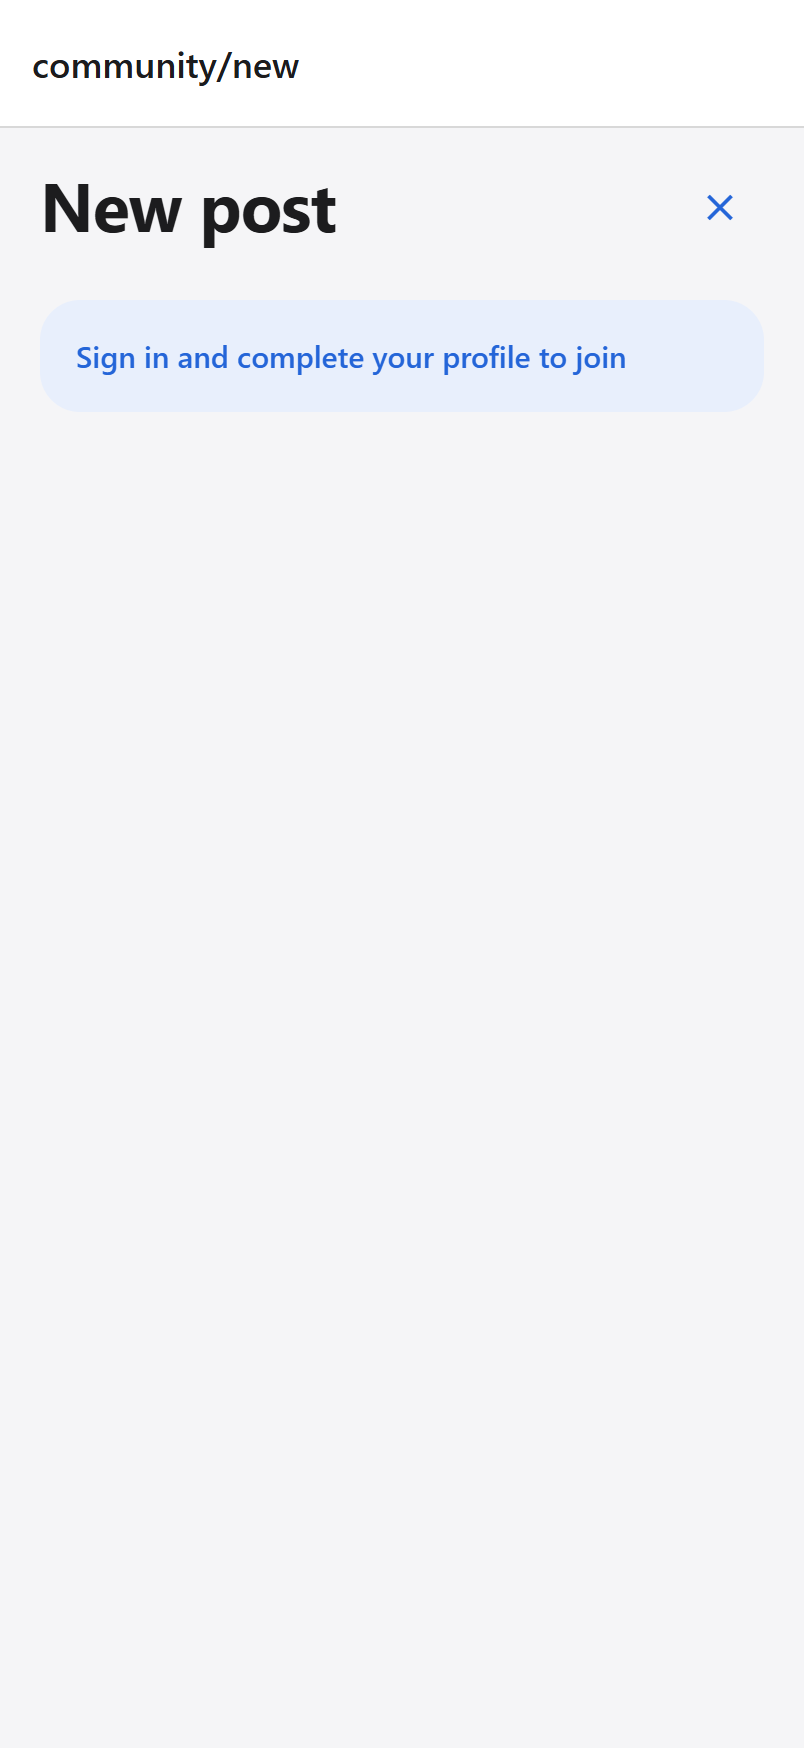
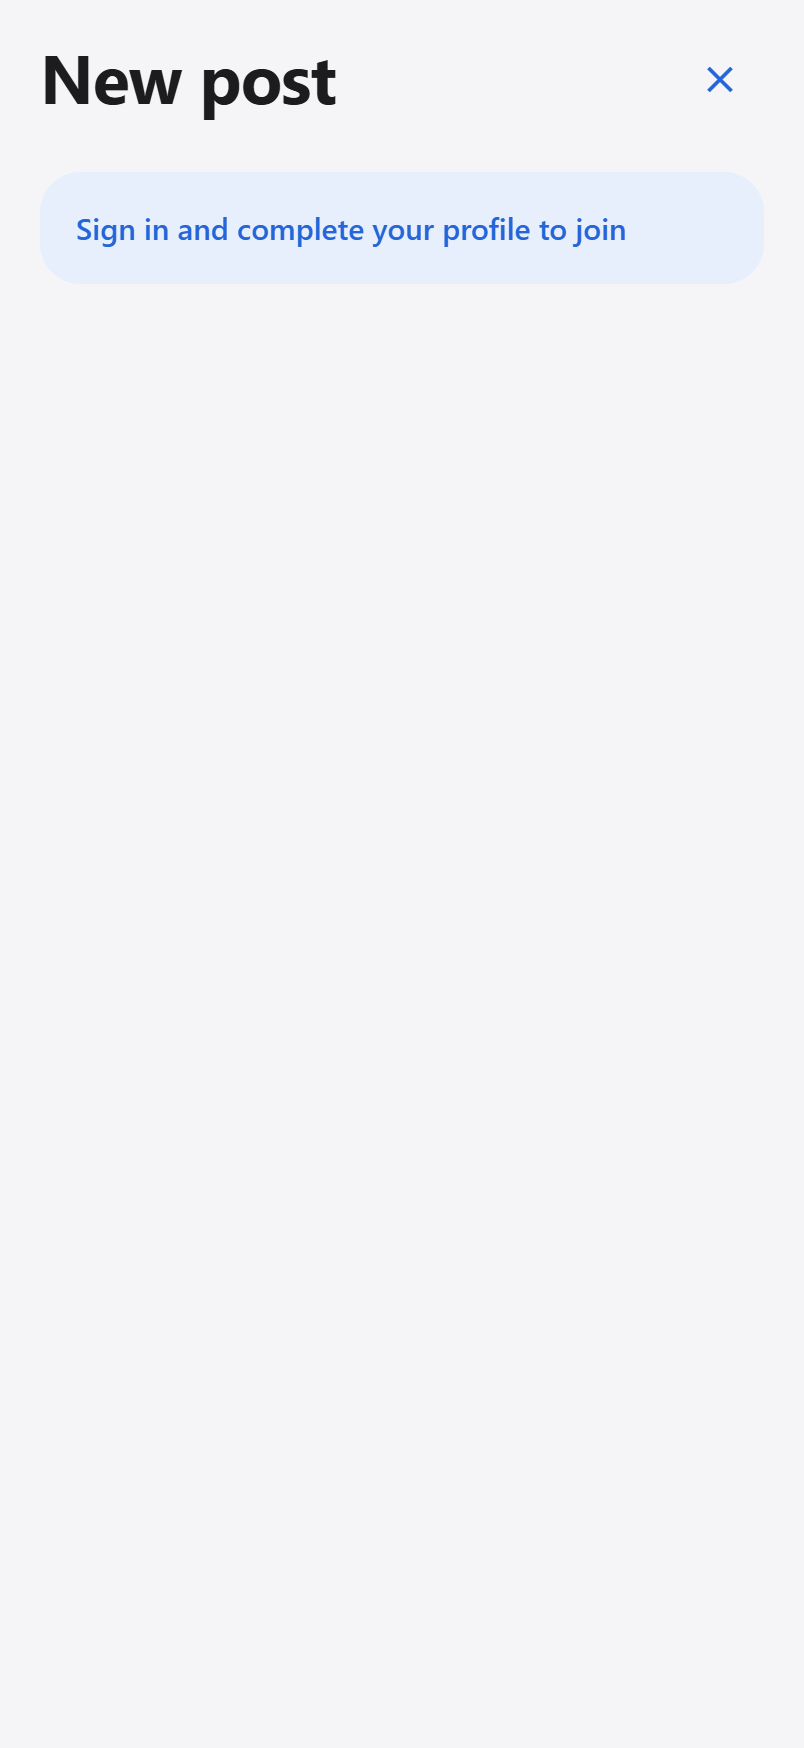
fix: use available Maven mirror for locked iOS dependencies

diff --git a/docs/plans/2026-09-09-device-feedback-social-v5.md b/docs/plans/2026-09-09-device-feedback-social-v5.md
@@ -37,3 +37,8 @@ The community is a working shared feed, not a fabricated active network. Current
 Avatar cleanup is a private due-job worker. Account-erasure processing invokes it alongside existing media workers; the operator can invoke `cleanup-profile-avatars` again after the upload-credential window (at most 2h15 from reservation). There is currently no periodic cleanup scheduler. Old objects become unreadable immediately on replacement, but queued physical deletion must not be described as already complete. Before a public production launch, schedule the existing worker and measure oldest pending-job age; do not add another user-facing approval step.
 
 Full source CI passed for `a91f27667333bfecedc2a6362726eb3145d4220e`: [run 34375166289](https://github.com/ZP151/anicare/actions/runs/34375166289), including all database contracts from clean migrations. Hosted correctness completed successfully; provenance promotion and iOS build follow.
+
+
+### Native dependency transport repair
+
+Candidate run 34375967578 (attempts 1–2) could not resolve the existing RN 0.86.3 prebuilt artifacts: canonical Maven requests redirected and returned `X-Maven-Proxy-Upstream-Status: 522` with a transient 404. The same exact artifacts return 200 from the [GCS Maven Central mirror](https://maven-central.storage.googleapis.com/index.html), an independently maintained mirror hosted on Google Cloud Storage, not an officially supported Google product. The native build now scopes a curl transport adapter to the two public React Native/Hermes Maven namespaces during locked Pod installation. Version selection, canonical podspec identity, RN's tarball checksum handling and `pod install --deployment` remain intact. Other hosts/paths/arguments are passed through; no credentials are redirected. The reviewed Podfile.lock is unchanged.
